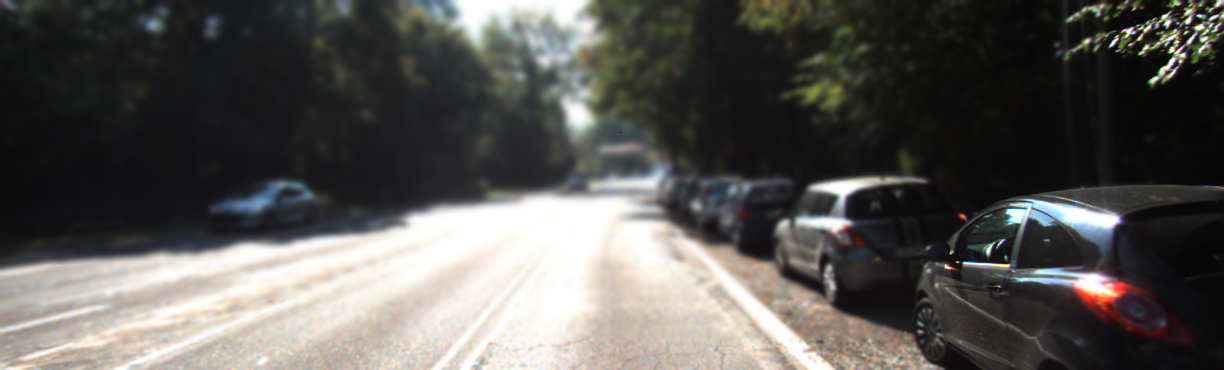
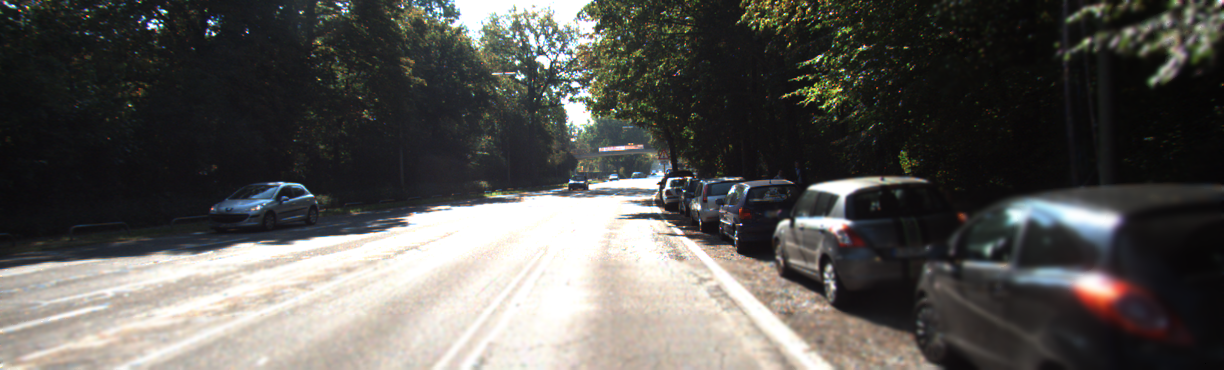
Hack to run without ML.

diff --git a/main.py b/main.py
@@ -4,7 +4,7 @@ import os
 parser = argparse.ArgumentParser(description='Synthetic Defocussing Using Depth Estimation')
 
 parser.add_argument('--image_path', type=str, help='path to input image', default='images/sample2.png')
-parser.add_argument('--model_path', type=str, help='path to saved model', required=True)
+parser.add_argument('--model_path', type=str, help='path to saved model', default='blah')
 parser.add_argument('--blur_method', type=str, help='the type of blur to be applied', default='gaussian')
 
 args = parser.parse_args()

diff --git a/README.md b/README.md
@@ -29,6 +29,8 @@ python main.py --model_path /path/to/model --image_path /path/to/image
 
 The image will load up. Clicking anywhere sets that as the point of focus, regenerating the image.
 
+*I've actually pushed in the depth data for the sample images, so you can actually run the program without tensorflow or a trained model for the sample images :)*
+
 
 ### To use our nice GUI
 Install dependencies from requirements.txt
